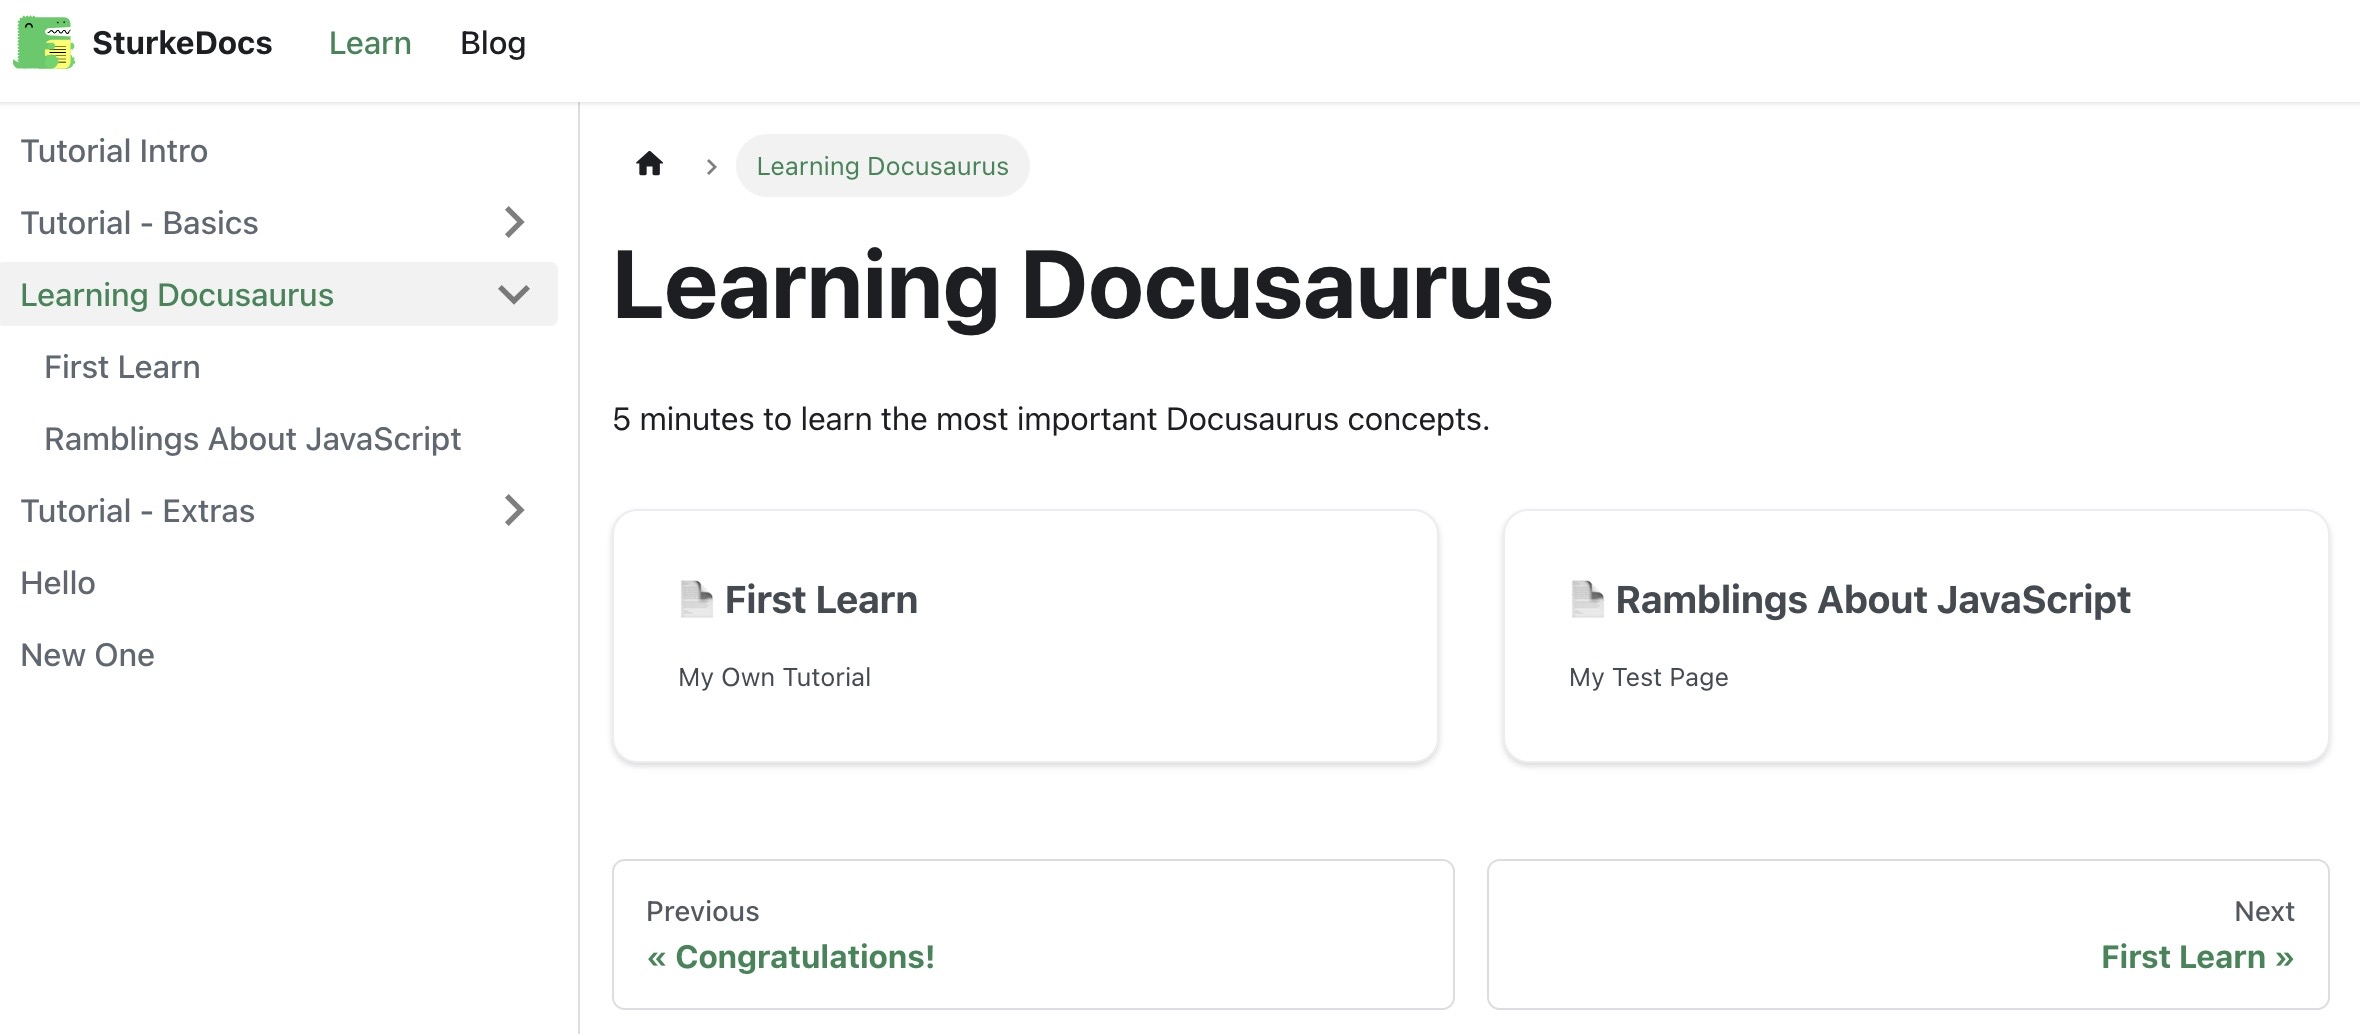
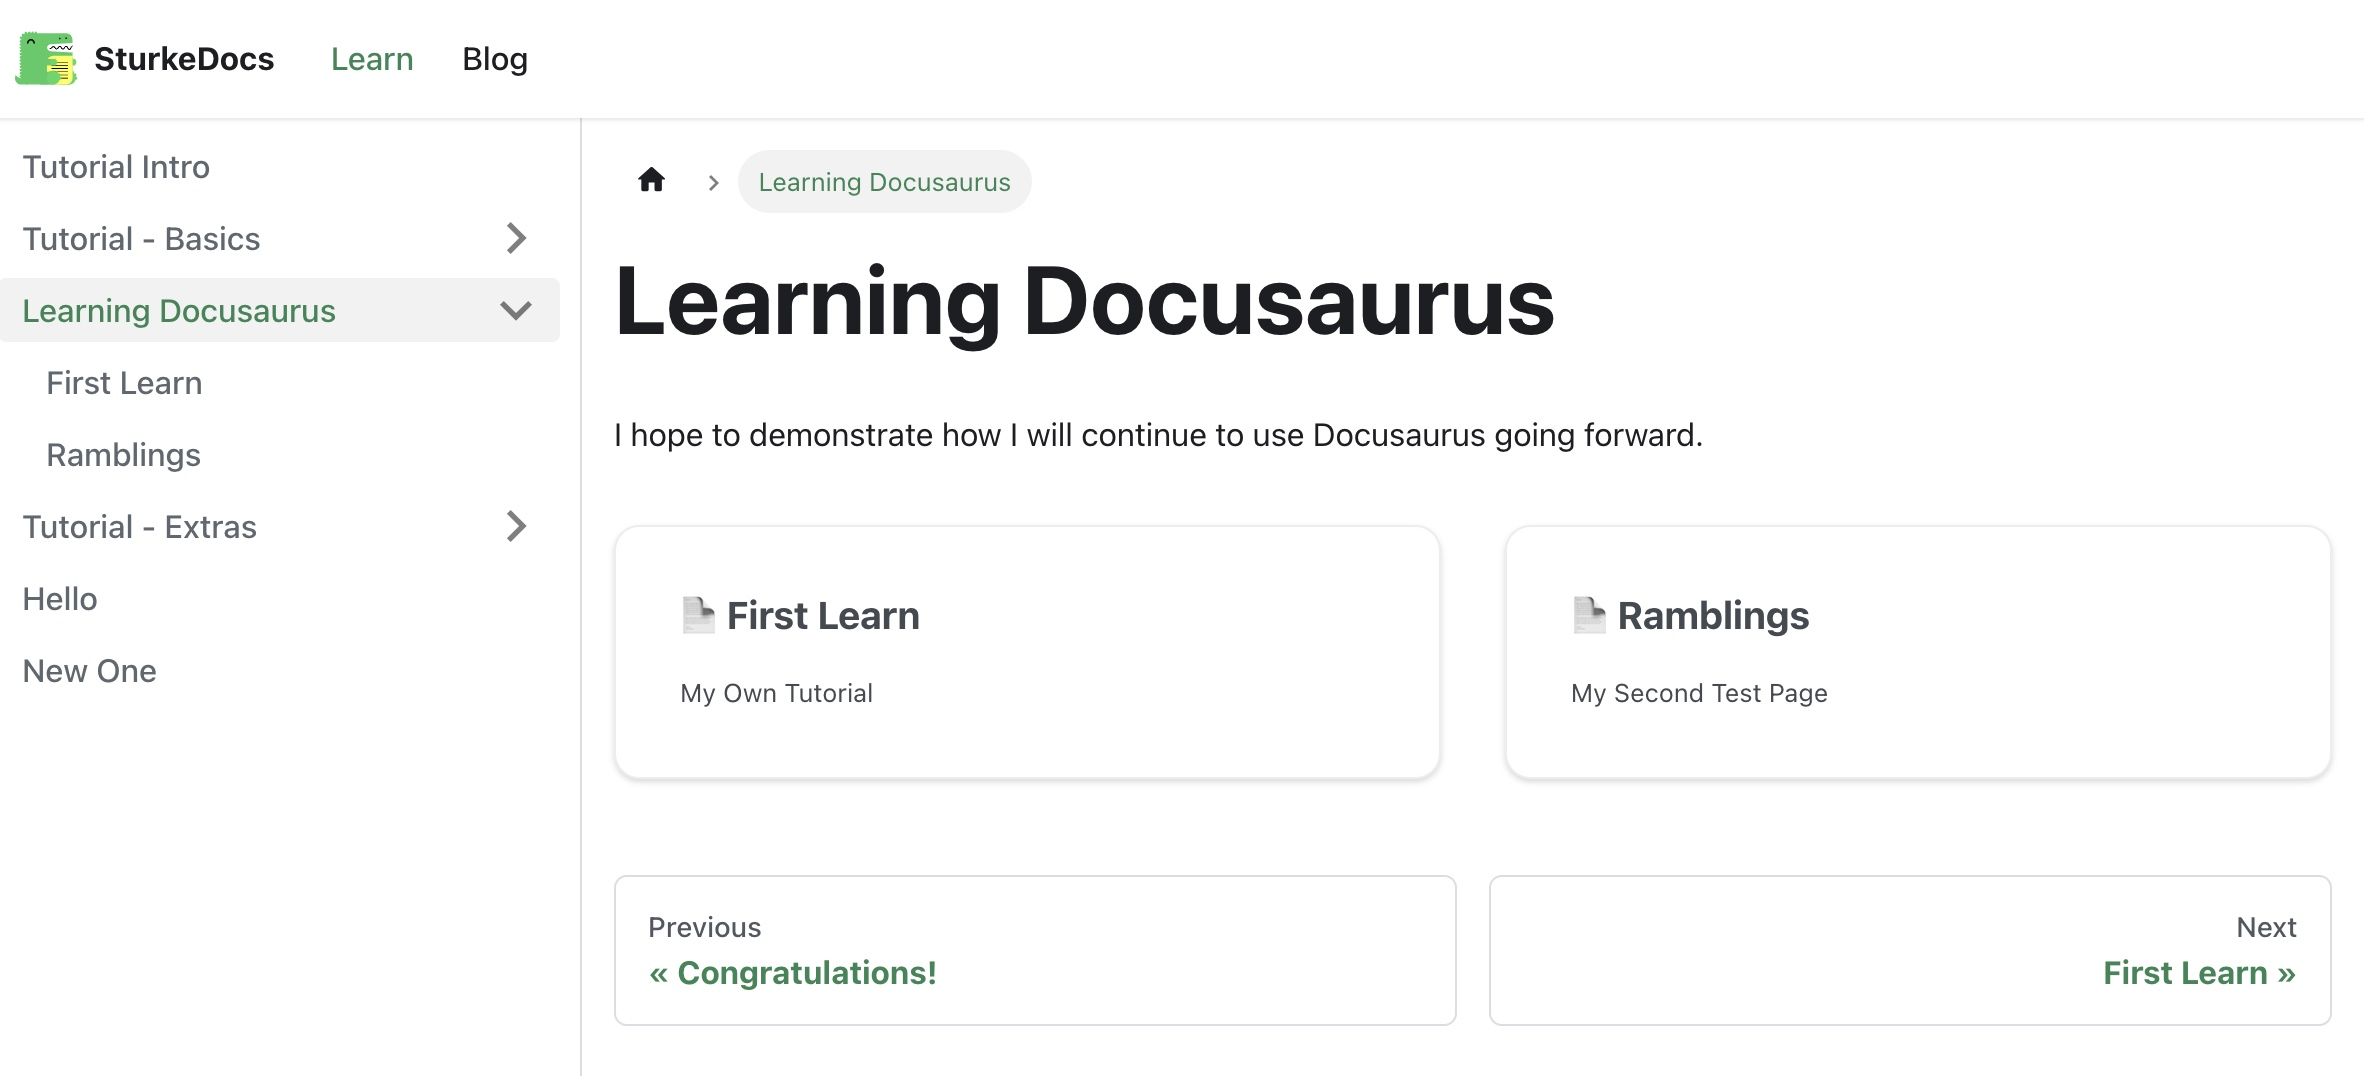
Update screenshot and improve readability of process in my tutorial

diff --git a/docs/learning-docusaurus/first-learn-doc.md b/docs/learning-docusaurus/first-learn-doc.md
@@ -14,9 +14,9 @@ Create a new folder inside the `docs` folder:
 ```bash
 mkdir docs/learning-docusaurus
 ```     
-This creates a new menu item on the left sidebar: `Learning Docusaurus' >
+This creates a new menu item on the left sidebar: `Learning Docusaurus`. You can also create the folder using your code editor. 
 
-
+_________________
 
 ## Making The New Folder A Menu Item
 
@@ -27,7 +27,7 @@ Then your new learning-docusaurus `folder` needs to have a `_category_.json` fil
 ```bash
 touch docs/learning-docusaurus/_category_.json
 ```
-In this JSON file I can add a label, position, and link including a description that appears like a tagline on the `Learning Docusaurus` page. Like this: I changed my description text after I created my screenshot below. 
+Again, you can create this file using your code editor. In this JSON file you can add a label, position, and link including a description that appears like a tagline on the `Learning Docusaurus` page. Like this: I changed my description text after I created my screenshot below. 
 
 ```json
 {
@@ -40,9 +40,15 @@ In this JSON file I can add a label, position, and link including a description 
 }
 ```
 
-I'm going to try and insert a screenshot here.
+A screenshot of my `Learning Docusaurus` page: that shows the tiles of my new `First Learn` page and my second `Ramblings` page.
 
 ![An image from the static](/img/learning_docusaurus.jpg)
+
+To add a screenshot: Use this syntax: `An image from the static` inside square brackets followed by perentheses with the path to the image located in the `img` folder inside the `static` folder. And yes, the exclamation mark is required.
+```
+![An image from the static](/img/learning_docusaurus.jpg)
+```
+_________________
 
 ## Creating A File Inside The New Folder
 Create a new file inside the new folder:
@@ -51,13 +57,17 @@ Create a new file inside the new folder:
 touch docs/learning-docusaurus/first-learn-doc.md
 ```
  
-Docusaurus will automatically include this file in the sidebar menu under the `Learning Docusaurus` menu item. This page also automatically becomes a tile link on the Learning Docusaurus page and it gets included in the previous/next navigation below.
+Docusaurus will automatically include this file in the sidebar menu under the `Learning Docusaurus` menu item. As seen in the screenshot above, this page also automatically becomes a tile link on the Learning Docusaurus page and it gets included in the previous/next navigation below.
+
+_________________
 
 ## Adding Content To The New File
 
 Add content to the new file:
 
 I started this first-learn-doc markdown file inside of my new learning-docusaurus folder: `docs/learning-docusaurus/first-learn-doc.md`
+
+_________________
 
 ## How To Link To Pages
 

diff --git a/docs/learning-docusaurus/ramblings.md b/docs/learning-docusaurus/ramblings.md
@@ -1,7 +1,7 @@
 ---
 id: learning-ramblings
-title: Ramblings About JavaScript
-description: My SecondTest Page
+title: Ramblings 
+description: My Second Test Page
 slug: /ramblings
 ---
 # Ramblings About JavaScript
